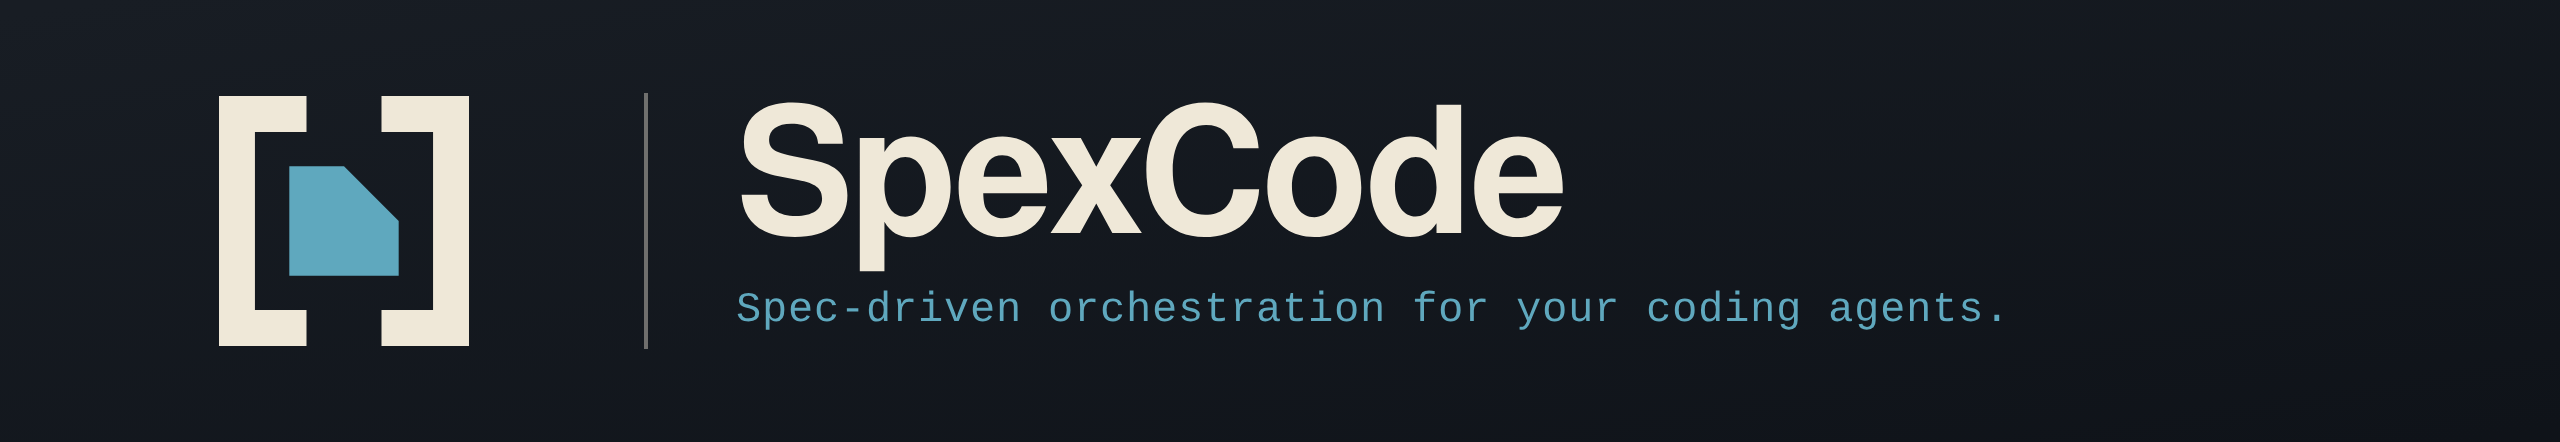
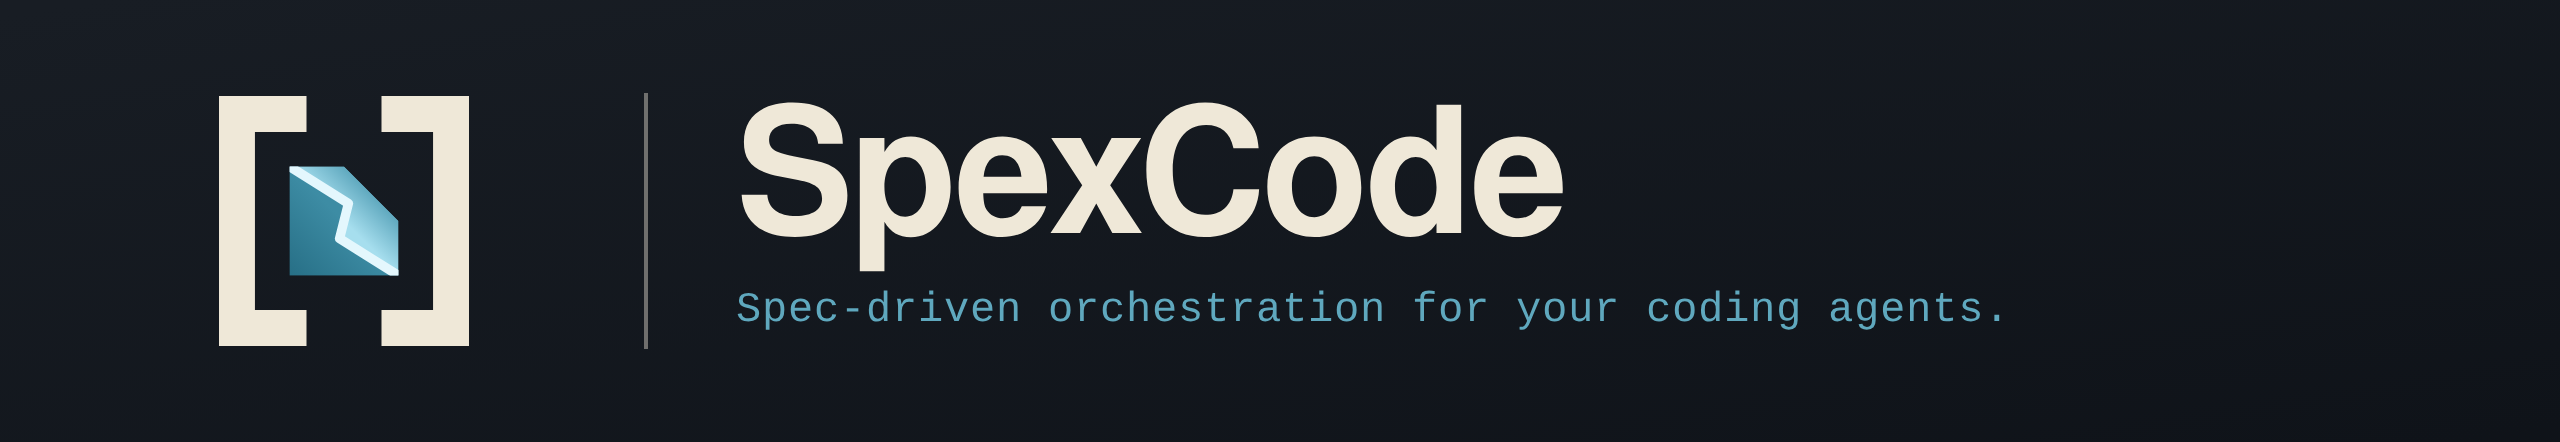
brand: cleave the mark — a lit Z fracture, regenerated upper half
The file the brackets hold is now split corner to corner and rebuilt on the upper side of the cut:
that half is a brighter material, and the light in both faces comes from the seam, so the mark says
the code was regenerated from its spec and came back better.

The cut is parallel to the block's chamfer and folds exactly twice, at 44%/56% with a ±20 throw. Two
folds is the whole budget: with both ends pinned to opposite corners the outer runs must tilt to reach
a displaced middle, so a straight-sideways-straight step is not available under two folds — it costs
four.

Three things are measured rather than chosen, and docs/brand/README.md records them because nothing
else does:

- The coloured seam is INK, not a gap. A paper gap removes mass, and at 16px the block is 4.4px
  across, so a full-width gap hollows it into a ring. An inked seam costs nothing, which is the only
  reason the cut may reach both corners.
- The single-ink seam is therefore 8 units, not 12 — there the seam really is paper and really does
  cost mass. At 12 the mono block reads broken by 32px.
- The seam vanishes before the mark does. Below ~24px it merges and the two-tone split carries the
  idea alone, which works because the split changes no silhouette.

A mid-tone seam was tried first and rejected on measurement, not taste: a colour exactly between the
two halves has no contrast against either and disappears at every size. The seam has to sit outside
the range it divides.
[…]

Changed region(s): [[0.0938, 0.3824, 0.1562, 0.6471]]

diff --git a/docs/brand/README.md b/docs/brand/README.md
@@ -1,8 +1,42 @@
 # Brand assets
 
 The mark is **two brackets holding one file**: code bound to a contract rather than asserted to match
-it, and the file is there because a spec governs exactly one file. Ink `#171A20`, paper `#EFE8D8`,
-accent `#16495A` (`#5FA8BE` on dark ground, where the darker teal loses contrast).
+it, and the file is there because a spec governs exactly one file. The file is **cleft corner to corner
+and rebuilt on the upper side of the cleft** — that half is a brighter material and the light in the
+seam comes from the crack itself, so the mark says the code was regenerated from its spec and came back
+better. Ink `#171A20`, paper `#EFE8D8`.
+
+## The cleft
+
+The cut runs the block's main diagonal, which is parallel to its chamfer, so the crack and the file's
+own corner are the same gesture. It folds exactly twice, at 44% and 56% of its length with a ±20-unit
+throw: the two straight runs stay long and the crossing stroke is short and steep. Two folds is the
+budget — with both ends pinned to opposite corners, the outer segments have to tilt to reach a displaced
+middle, so a crisp *straight → sideways → straight* step is not available under two folds; it costs four.
+
+| | at the seam → outward | seam |
+| --- | --- | --- |
+| old half, paper ground | `#22687E` → `#123E4D` | `#9ADCEC` at 12 units |
+| new half, paper ground | `#6FC0D8` → `#2A7188` | |
+| old half, dark ground | `#3D8CA4` → `#276F86` | `#E4F7FD` at 12 units |
+| new half, dark ground | `#A6DEEE` → `#5FA8BE` | |
+| single ink | `#171A20` | `#EFE8D8` at **8** units |
+
+Both surface gradients start **at the seam** and fall off outward, which is what makes the crack read as
+the light source rather than as damage.
+
+Three measured constraints hold this together, and breaking any of them breaks the mark at size:
+
+- **The coloured seam is ink, not a gap.** A paper gap removes mass, and at 16px the block is only
+  4.4px across, so a full-width gap hollows it into a ring. An inked seam costs nothing, which is the
+  only reason the cut may run corner to corner at all.
+- **The single-ink seam is therefore thinner**, 8 units rather than 12 — there the seam *is* paper and
+  does cost mass. At 12 the mono block reads broken by 32px.
+- **The seam disappears before the mark does.** Below about 24px the seam merges and the two-tone split
+  carries the whole idea; the split survives because it changes no silhouette. Do not widen the seam to
+  fight this — widening is what destroys the block.
+
+The gradients flatten to their midpoints in the 24-unit dashboard preset, which has no room for a ramp.
 
 | file | what it is |
 | --- | --- |
